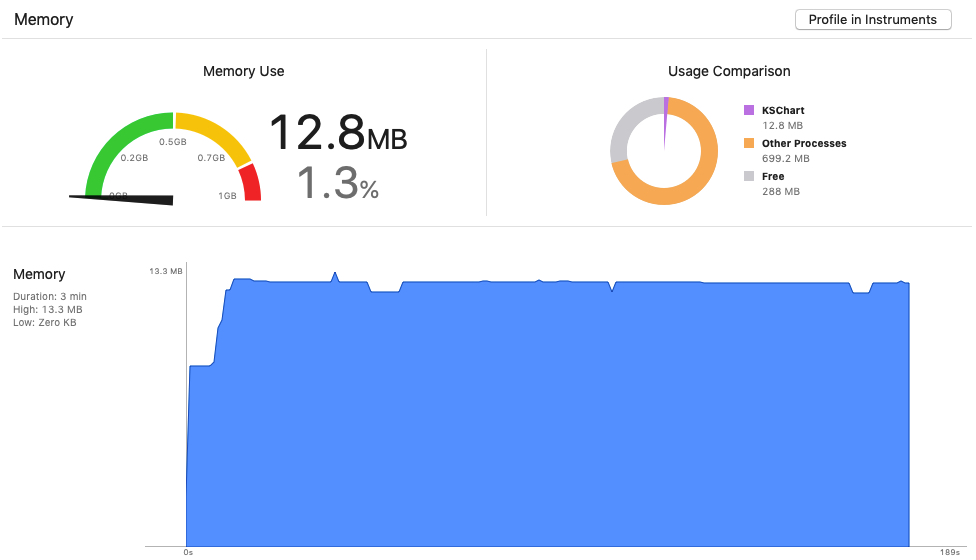
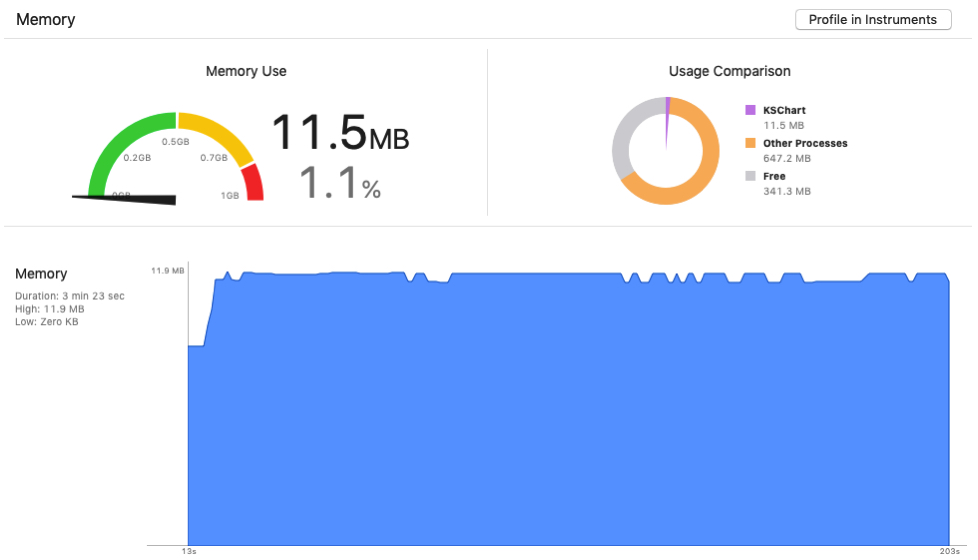
更新示例图片

diff --git a/README.md b/README.md
@@ -1,16 +1,18 @@
 k线图/kline/kchart，已经集成MA/EMA/MACD/KDJ/BOLL/RSI等指标，新增指标及其方便。适用于股票/区块链交易所等种类App。Swift5编写，数据处理能力优秀，60FPS稳定运行。示例集成websocket，并接入币安数据（需VPN）。
 
 # KSChart 效果图
-<img src="https://github.com/saeipi/KSChart/blob/master/Resources/time.jpg" alt="分时图" width="600" height="464" align="middle"/>
+<img src="https://github.com/saeipi/KSChart/blob/master/Resources/time.jpg" alt="分时图" width="600" height="604" align="middle"/>
 
-<img src="https://github.com/saeipi/KSChart/blob/master/Resources/candle.jpg" alt="蜡烛图" width="600" height="464" align="middle"/>
+<img src="https://github.com/saeipi/KSChart/blob/master/Resources/tais.jpg" alt="指标菜单" width="600" height="604" align="middle"/>
 
-<img src="https://github.com/saeipi/KSChart/blob/master/Resources/cross.jpg" alt="选中单个蜡烛图" width="600" height="464" align="middle"/>
+<img src="https://github.com/saeipi/KSChart/blob/master/Resources/candle.jpg" alt="蜡烛图" width="600" height="604" align="middle"/>
 
-### 500多条K线数据，真机示例内存占用为12.8M（其中KSChart占用4M左右），机型不同CPU占用差异会比较大，老设备在滑动时帧数会有所下降
-<img src="https://github.com/saeipi/KSChart/blob/master/Resources/cpu.jpg" alt="cpu占用率" width="800" height="341" align="middle"/>
+<img src="https://github.com/saeipi/KSChart/blob/master/Resources/cross.jpg" alt="选中单个蜡烛图" width="600" height="604" align="middle"/>
 
-<img src="https://github.com/saeipi/KSChart/blob/master/Resources/memory.jpg" alt="memory占用率" width="800" height="459" align="middle"/>
+### 500多条K线数据，真机示例内存占用为11.8M（其中KSChart占用3M），机型不同CPU占用差异会比较大，老设备在滑动时帧数会有所下降
+<img src="https://github.com/saeipi/KSChart/blob/master/Resources/cpu.jpg" alt="cpu占用率" width="800" height="338.6" align="middle"/>
+
+<img src="https://github.com/saeipi/KSChart/blob/master/Resources/memory.jpg" alt="memory占用率" width="800" height="458" align="middle"/>
 
 ### 如果觉得好用就打个赏呗
 <img src="https://github.com/saeipi/KSChart/blob/master/Resources/Alipay.jpg" alt="Alipay" width="200" height="251" align="left"/>
